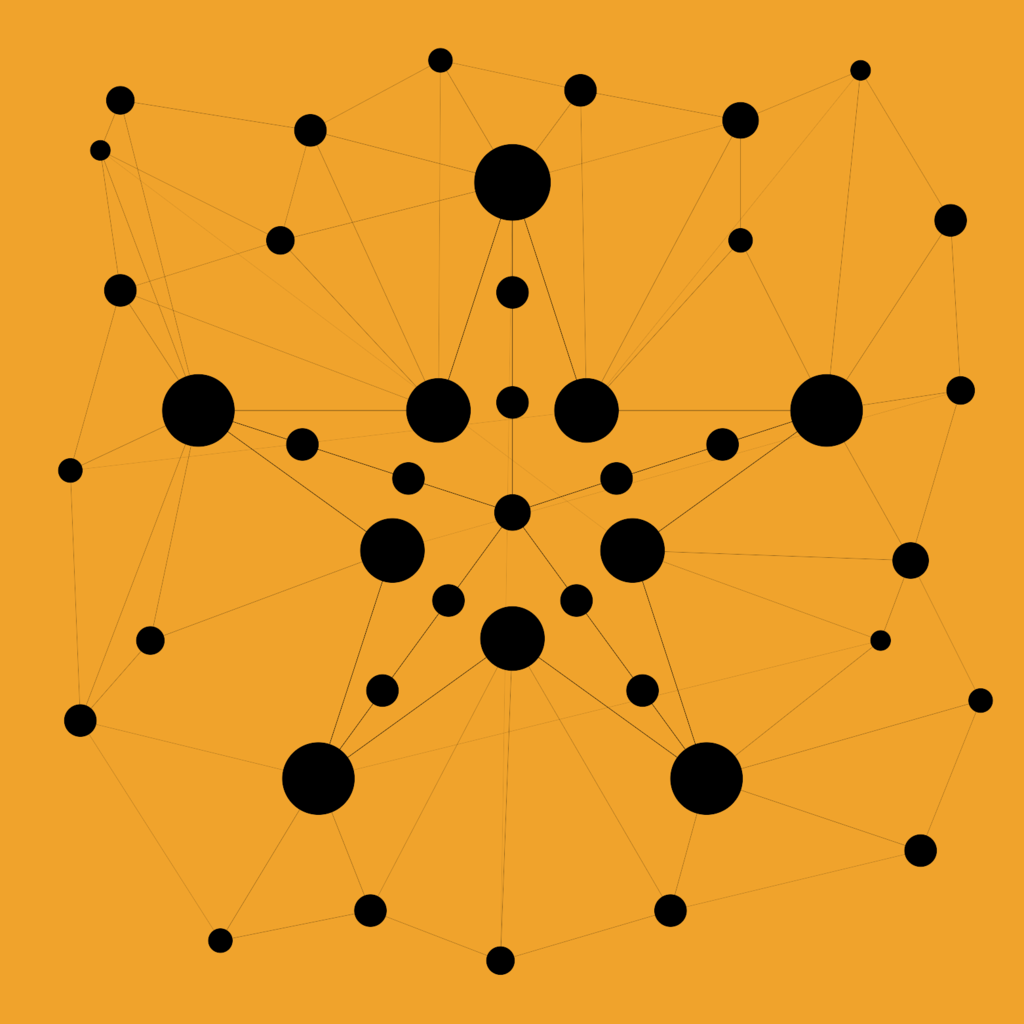
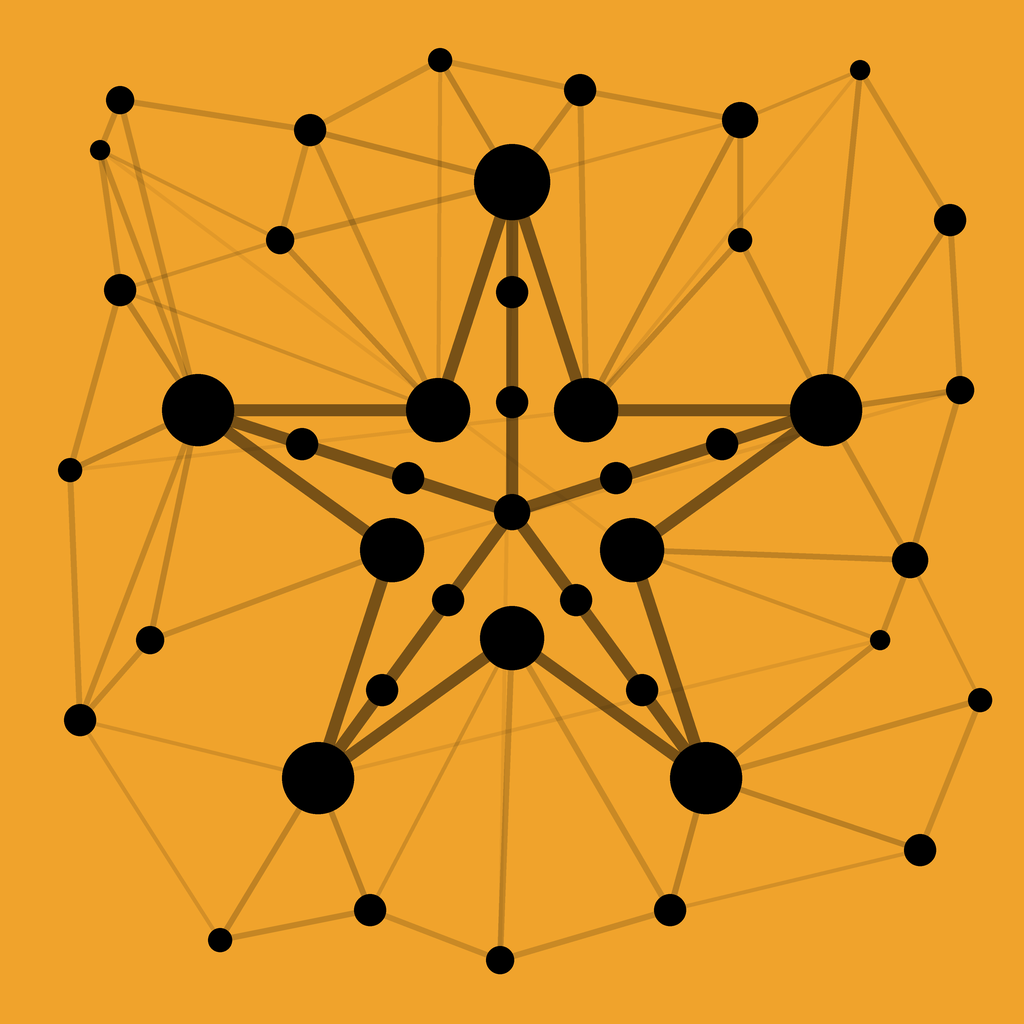
Star as a character in the headline; clean mark in the rail; clean raster output
Three fixes in one pass.

The hero star is now a character at the head of the headline rather than a block in its own
column, sized in em so it tracks the type with an ordinary space after it. The column
approach is gone and the hero grid is back to two columns.

Everything is a plain <img> instead of a CSS mask. The mask never painted: with the mask
removed and a solid colour set the element still drew nothing, so the colour is baked into
two drawings instead. Worth recording that this was hard to diagnose because the browser
tool redacts colour values, reporting a set-to-magenta background as rgb(24,26,27) and
--sun as a light grey, so every computed-style reading was worthless and only screenshots
told the truth.

The rail gets a clean drawing with the satellite nodes dropped, keeping the five-pointed
figure and its own vertices. The rail is quiet and close-set, so the web reads as noise
there; the phone bar keeps the full drawing, where it has room.

The profile and favicon rasters are rendered directly from the drawing's circles and lines
at 4x and downsampled, rather than through ImageMagick's SVG renderer, which was producing
the lumpy nodes. Geometry now matches the original exactly, black exactly where the purple
version had white. site/img/chucodata-profile-1024.png is copied to ~/mobile.

Claude-Session: https://claude.ai/code/session_01HTUHzXRENXNweKtxM5eFmR

diff --git a/site/style.css b/site/style.css
@@ -1143,41 +1143,30 @@ a.joininline.is-new, a.joininline.is-new b { color: var(--sun); }
 
 .hero-figure { display: none; margin: 0; }
 
-/* Below the two-column breakpoint the hero is a single stack, and a square mark as
-   wide as the text would push the headline off the first screen. */
-.hero-star { display: none; }
-@media (min-width: 62rem) {
-  .hero-star {
-    display: block;
-    background: var(--sun);
-    -webkit-mask: url(/img/star.svg) center / contain no-repeat;
-    mask: url(/img/star.svg) center / contain no-repeat;
-  }
+/* A character at the head of the headline rather than a block beside it: sized in
+   em so it tracks the type, with the space after it doing the work a space does. */
+.hero-star {
+  display: inline-block;
+  width: 0.92em;
+  height: 0.92em;
+  vertical-align: -0.06em;
 }
 
 @media (min-width: 62rem) {
   .hero > .wrap {
     display: grid;
-    /* Three columns now: the star's track is a real width rather than auto, because
-       a square sized from its own stretched height is circular for an auto track and
-       the browser resolves that to zero. */
-    grid-template-columns: clamp(5.5rem, 11vw, 10rem) minmax(0, 1fr) 21rem;
+    grid-template-columns: minmax(0, 1fr) 21rem;
     column-gap: 2.75rem;
     row-gap: 1.75rem;
     align-items: start;
   }
-  /* Spans the three text rows and centres in them. Literally matching the text's
-     height would make the square as wide as the text is tall, which on a full hero
-     is about 300px of the reading column. */
-  .hero-star   { grid-row: 2 / span 3; grid-column: 1; align-self: center;
-                 aspect-ratio: 1; width: 100%; }
   .langbar     { grid-row: 1; grid-column: 1 / -1; }
   /* Full width so the headline has the whole hero to fit on one line — the 44rem
      reading cap applies to the paragraphs, not to the headline, or the text
      overflows its box and spills across the image column. */
-  .hero-head   { grid-row: 2; grid-column: 2 / -1; max-width: none; }
-  .hero-in     { grid-row: 3; grid-column: 2; }
-  .hero-more   { grid-row: 4; grid-column: 2; }
+  .hero-head   { grid-row: 2; grid-column: 1 / -1; max-width: none; }
+  .hero-in     { grid-row: 3; grid-column: 1; }
+  .hero-more   { grid-row: 4; grid-column: 1; }
   /* Spans every row of hero text and centres in it. Sized by the column width at
      its own aspect ratio — no stretch, so no crop and no distortion.
      `span 2` rather than `2 / -1`: -1 resolves against the EXPLICIT grid, and
@@ -1187,7 +1176,7 @@ a.joininline.is-new, a.joininline.is-new b { color: var(--sun); }
      3 and 4 — and centred in that area. Deliberately not row 2: the headline sits
      above it. `span 2` not `/ -1`, since -1 resolves against the explicit grid and
      there is no grid-template-rows here. */
-  .hero-figure { grid-row: 3 / span 2; grid-column: 3; display: block; align-self: center; }
+  .hero-figure { grid-row: 3 / span 2; grid-column: 2; display: block; align-self: center; }
   .hero-figure img {
     display: block;
     width: 100%;
@@ -1264,16 +1253,12 @@ html[lang="es"] { --h1-ratio: 28.1; --sun-ratio: 29.3; }
    sits among muted outline glyphs, and a solid tile there would shout. Opacity
    does the work that colour does for its neighbours, since a raster cannot take
    currentColor, and it lifts to full on hover the way they lighten to --ink. */
-/* Masked rather than pictured, so the colour comes from CSS and one vector serves
-   the bar, the hero and the favicon. A raster could not take a colour at all. */
-.nav-logo {
-  width: 84%;
-  height: 84%;
-  display: block;
-  background: var(--sun);
-  -webkit-mask: url(/img/star.svg) center / contain no-repeat;
-  mask: url(/img/star.svg) center / contain no-repeat;
-}
+/* Plain images rather than CSS masks. The mask never painted, not even with the
+   mask removed and a solid colour set, so the colour is baked into two drawings
+   instead: the full one, and a clean one that drops the satellite nodes hanging
+   outside the star's outline. */
+.nav-logo { width: 84%; height: 84%; display: block; }
+.nav-logo-clean { display: none; }
 
 .nav-icon:hover { color: var(--ink); }
 .nav-icon.is-copied { color: var(--agave); }
@@ -1291,6 +1276,10 @@ html[lang="es"] { --h1-ratio: 28.1; --sun-ratio: 29.3; }
   /* Sized against the flags beside it: their glyph reads large inside a 45px box,
      and a thin-stroked icon at the same box size reads smaller than it measures. */
   .sectionnav .nav-icon { width: 2.75rem; height: 2.75rem; }
+  /* The rail is quiet and close-set, so the satellite web reads as noise there.
+     The phone bar keeps the full drawing, where it has room to be seen. */
+  .nav-logo-full { display: none; }
+  .nav-logo-clean { display: block; }
   .sectionnav .nav-icon svg { width: 1.55rem; height: 1.55rem; stroke-width: 1.75; }
 
   .nav-top {

diff --git a/site/es/index.html b/site/es/index.html
@@ -17,7 +17,7 @@
 <!-- ============ SECTION NAV ============ -->
 <nav class="sectionnav" aria-label="Secciones">
   <div class="nav-top">
-    <button class="nav-icon nav-home" type="button" aria-label="Volver arriba" title="Volver arriba"><span class="nav-logo"></span></button>
+    <button class="nav-icon nav-home" type="button" aria-label="Volver arriba" title="Volver arriba"><img class="nav-logo nav-logo-full" src="/img/star-sun.svg" alt="" width="512" height="512"><img class="nav-logo nav-logo-clean" src="/img/star-clean-sun.svg" alt="" width="512" height="512"></button>
     <button class="nav-icon nav-copy" type="button" aria-label="Copiar el enlace de esta página" title="Copiar el enlace de esta página" data-copied="Enlace copiado"><svg viewBox="0 0 24 24" aria-hidden="true" focusable="false"><path d="M10.2 13.8a4.4 4.4 0 0 0 6.6.5l2.6-2.6a4.4 4.4 0 0 0-6.2-6.2l-1.5 1.5"/><path d="M13.8 10.2a4.4 4.4 0 0 0-6.6-.5l-2.6 2.6a4.4 4.4 0 0 0 6.2 6.2l1.5-1.5"/></svg></button>
     <div class="nav-lang" aria-hidden="true">
       <a class="nav-flag" href="/en/" lang="en" hreflang="en" aria-label="Switch to English" tabindex="-1">🇺🇸</a>
@@ -39,10 +39,9 @@
       <span class="sep" aria-hidden="true">/</span>
       <span aria-current="page" lang="es"><span class="flag" aria-hidden="true">🇲🇽</span><span class="lang-word">Espa&ntilde;ol</span></span>
     </nav>
-      <span class="hero-star" aria-hidden="true"></span>
     <div class="hero-head">
       <p class="sunline">Una propuesta &middot; El Paso &middot; Ciudad Ju&aacute;rez</p>
-      <h1>Un centro de datos que le pertenezca a El&nbsp;Chuco.</h1>
+      <h1><img class="hero-star" src="/img/star-sun.svg" alt="" width="512" height="512"> Un centro de datos que le pertenezca a El&nbsp;Chuco.</h1>
     </div>
     <div class="hero-in">
       <p class="lede">Meta est&aacute; construyendo un centro de datos de inteligencia artificial de 10&nbsp;mil millones de d&oacute;lares en el noreste de El&nbsp;Paso. Esta es una propuesta para una alternativa que pertenezca a quienes vivimos aqu&iacute;, gobernada por una junta directiva que eligen sus propios socios.</p>

diff --git a/site/index.html b/site/index.html
@@ -21,7 +21,7 @@
      only adds the scroll-spy current marker. -->
 <nav class="sectionnav" aria-label="Sections">
   <div class="nav-top">
-    <button class="nav-icon nav-home" type="button" aria-label="Back to top" title="Back to top"><span class="nav-logo"></span></button>
+    <button class="nav-icon nav-home" type="button" aria-label="Back to top" title="Back to top"><img class="nav-logo nav-logo-full" src="/img/star-sun.svg" alt="" width="512" height="512"><img class="nav-logo nav-logo-clean" src="/img/star-clean-sun.svg" alt="" width="512" height="512"></button>
     <button class="nav-icon nav-copy" type="button" aria-label="Copy link to this page" title="Copy link to this page" data-copied="Link copied"><svg viewBox="0 0 24 24" aria-hidden="true" focusable="false"><path d="M10.2 13.8a4.4 4.4 0 0 0 6.6.5l2.6-2.6a4.4 4.4 0 0 0-6.2-6.2l-1.5 1.5"/><path d="M13.8 10.2a4.4 4.4 0 0 0-6.6-.5l-2.6 2.6a4.4 4.4 0 0 0 6.2 6.2l1.5-1.5"/></svg></button>
     <div class="nav-lang" aria-hidden="true">
       <span class="nav-flag is-current" aria-current="page" lang="en" aria-label="English">🇺🇸</span>
@@ -43,10 +43,9 @@
       <span class="sep" aria-hidden="true">/</span>
       <a href="/es/" lang="es" hreflang="es"><span class="flag" aria-hidden="true">🇲🇽</span><span class="lang-word">Español</span></a>
     </nav>
-      <span class="hero-star" aria-hidden="true"></span>
     <div class="hero-head">
       <p class="sunline">A proposal &middot; El Paso &middot; Ciudad Ju&aacute;rez</p>
-      <h1>A data center that belongs to El&nbsp;Chuco.</h1>
+      <h1><img class="hero-star" src="/img/star-sun.svg" alt="" width="512" height="512"> A data center that belongs to El&nbsp;Chuco.</h1>
     </div>
     <div class="hero-in">
       <p class="lede">Meta is building a $10&nbsp;billion AI data center in Northeast El Paso. This is a proposal for an alternative that belongs to the people who live here, governed by a board its members elect.</p>
